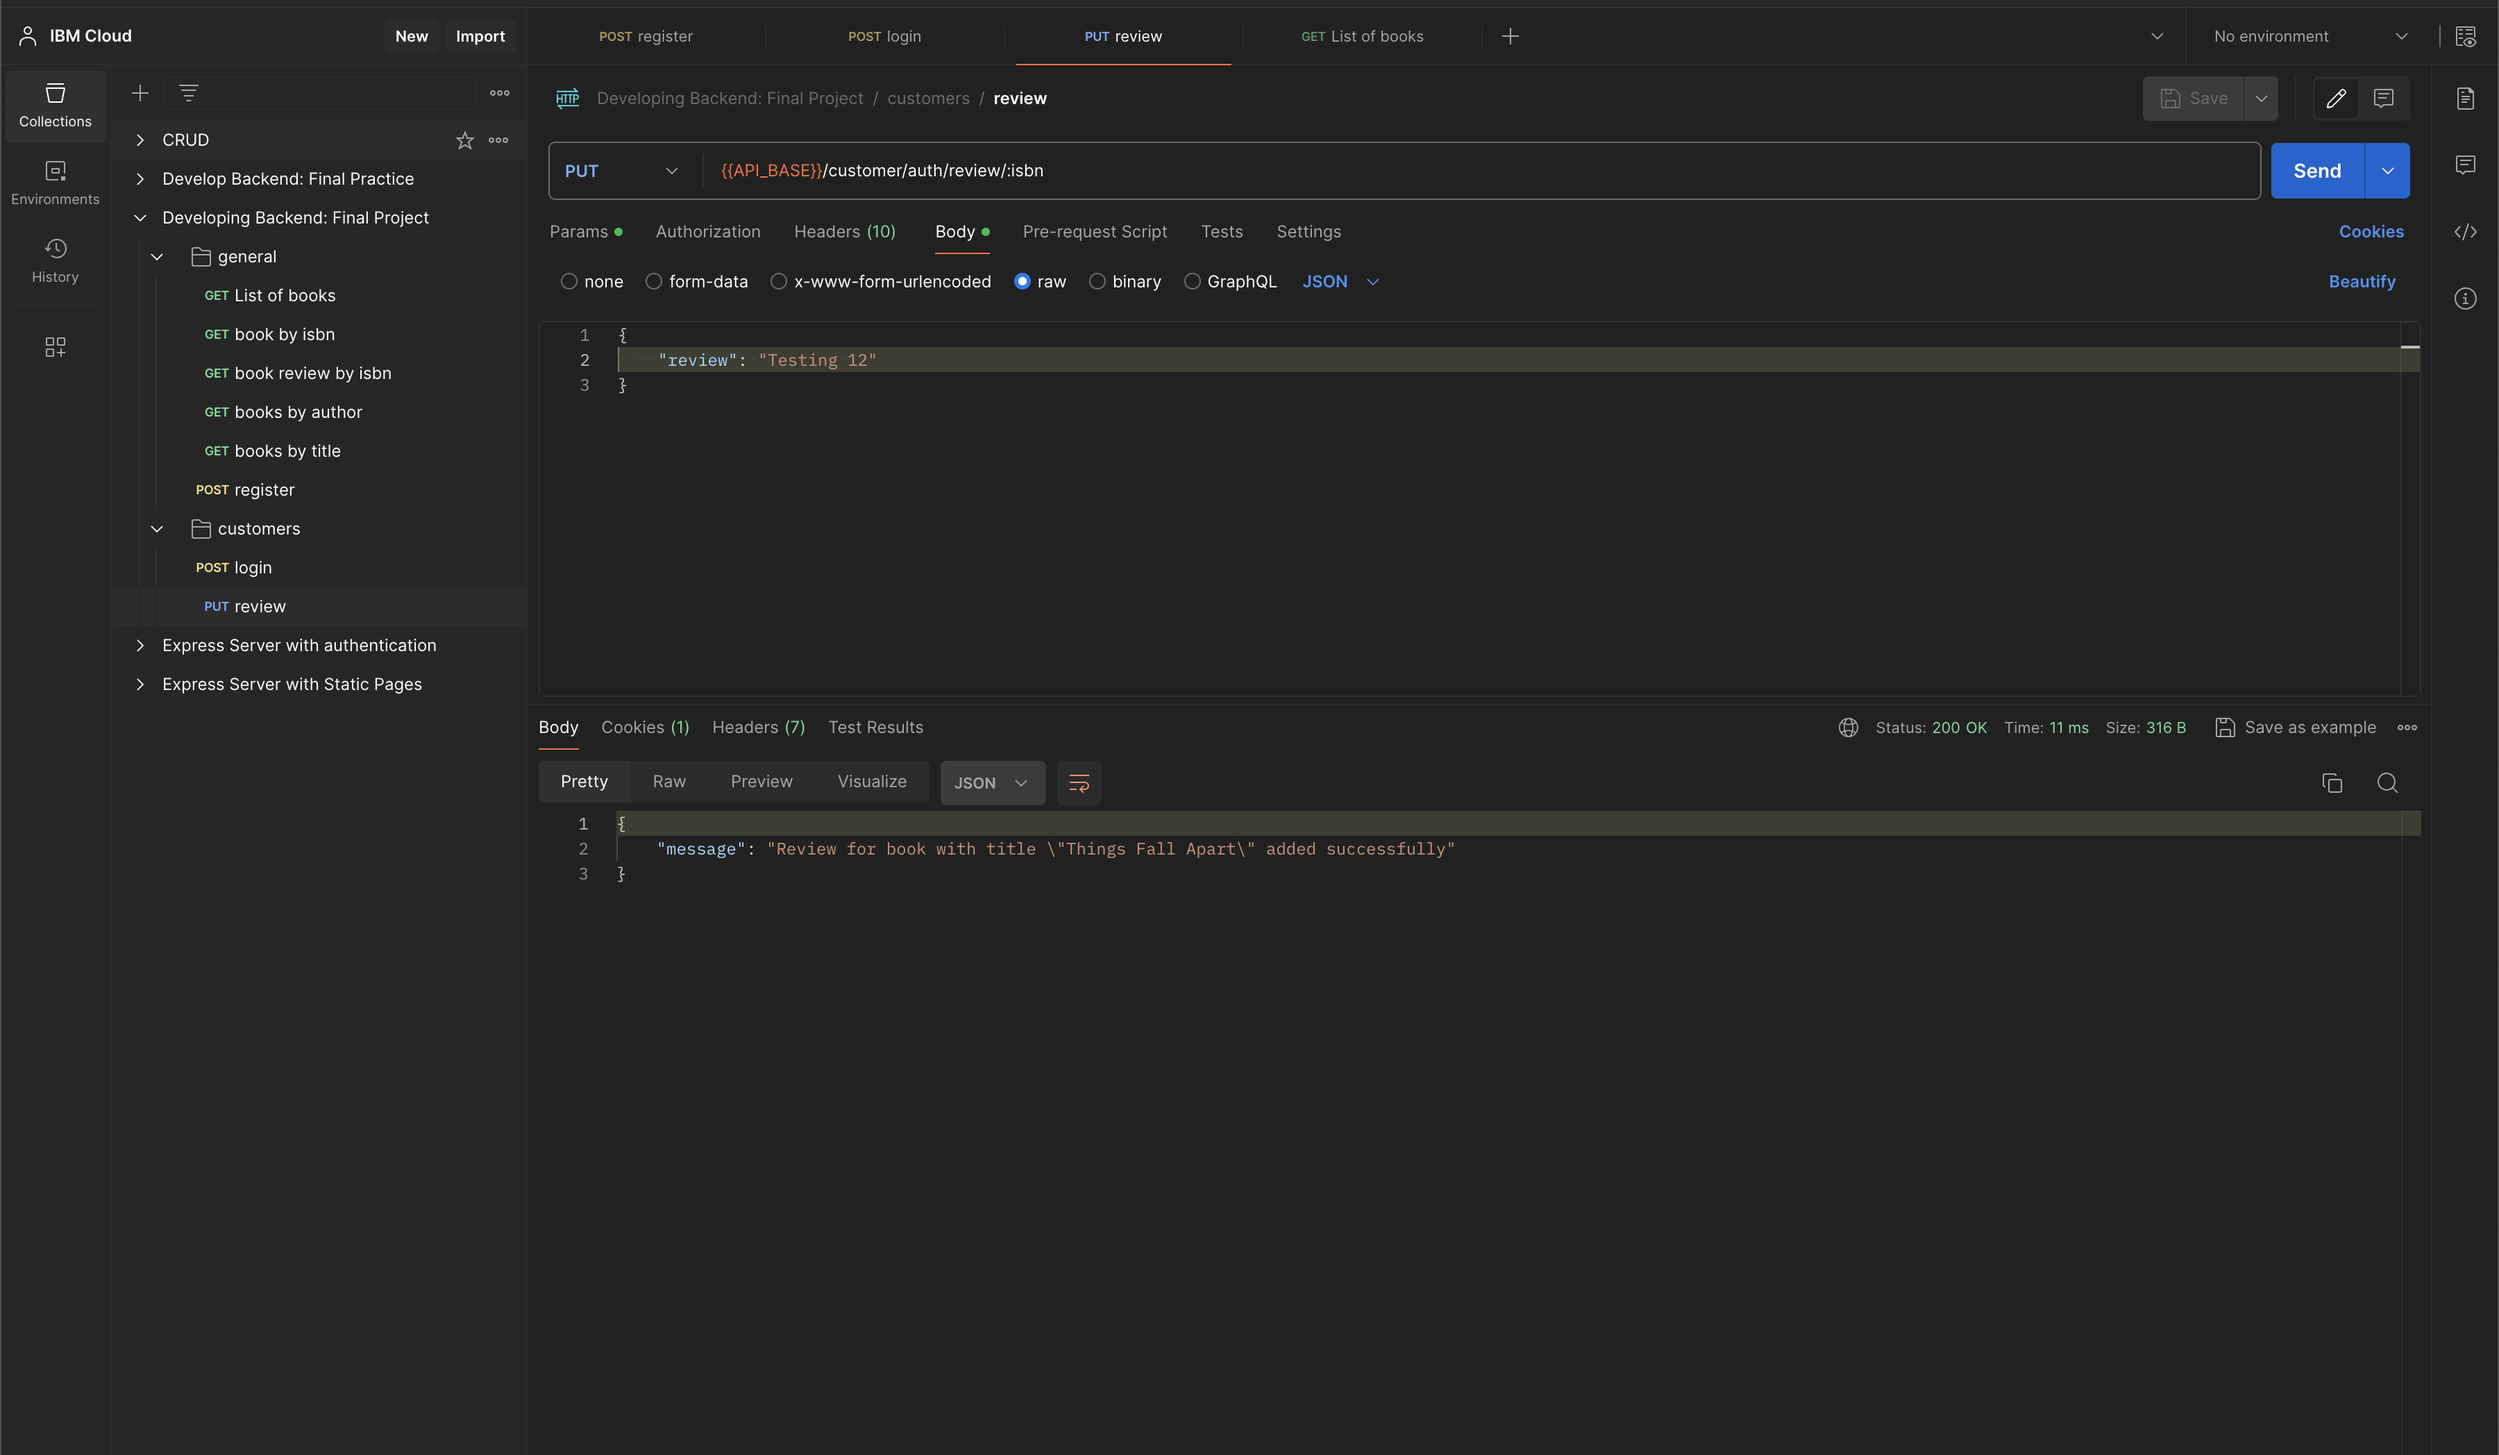
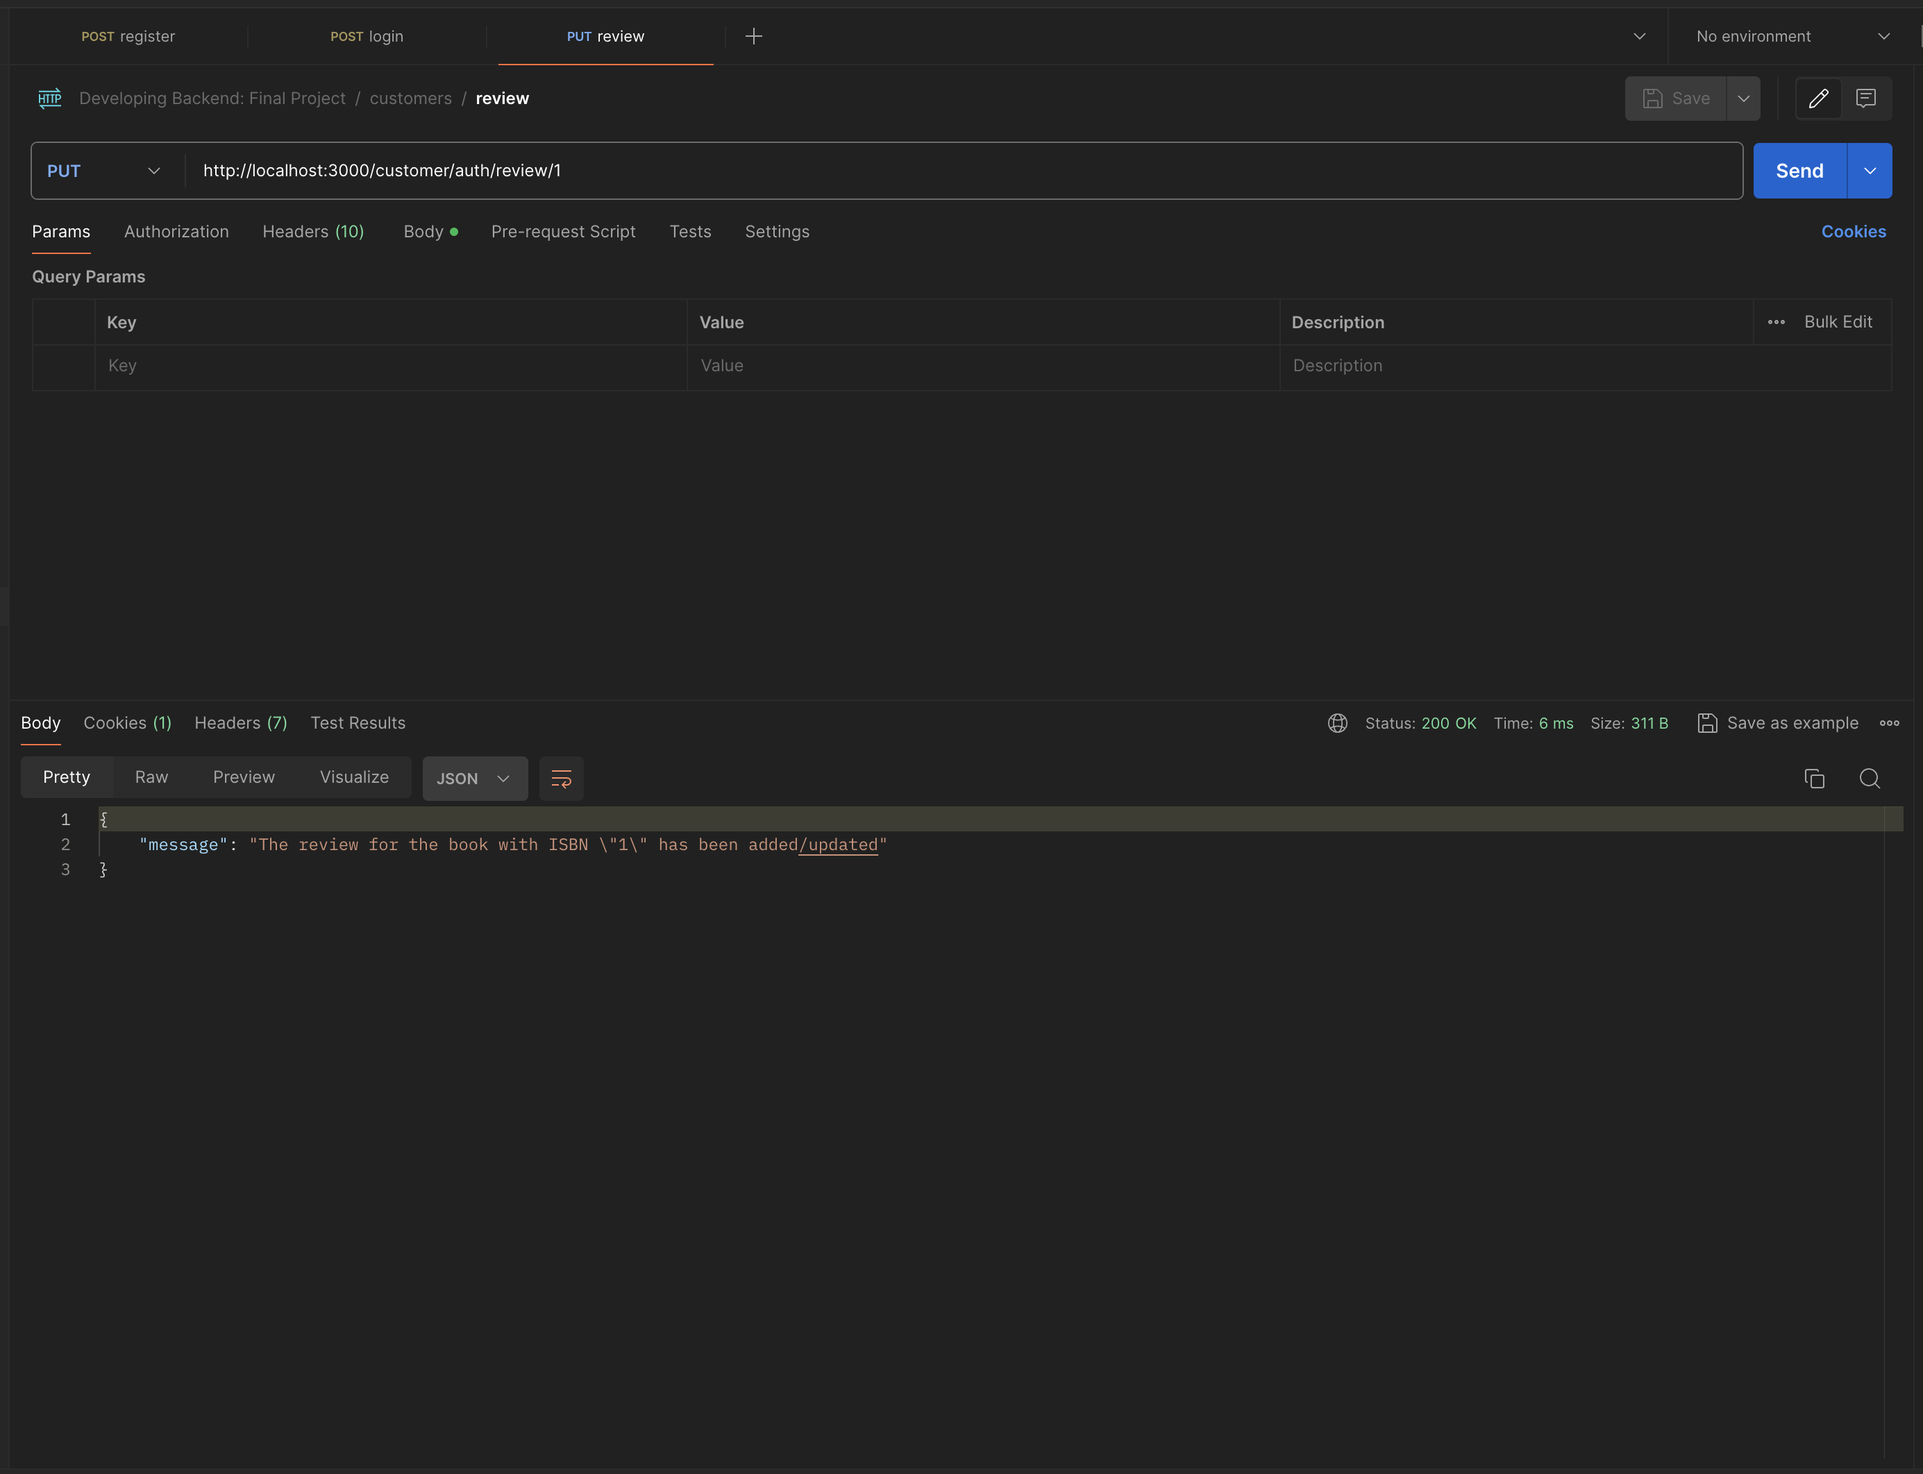
simplify task 8 screenshot

diff --git a/final_project/router/auth_users.js b/final_project/router/auth_users.js
@@ -59,7 +59,7 @@ registered_users.put("/auth/review/:isbn", (request, response) => {
 
   books[isbn].reviews[username] = review;
 
-  return response.status(200).json({ message: `Review for book with title "${books[isbn].title}" added successfully` });
+  return response.status(200).json({ message: `The review for the book with ISBN "${isbn}" has been added/updated` });
 });
 
 // delete a book review
